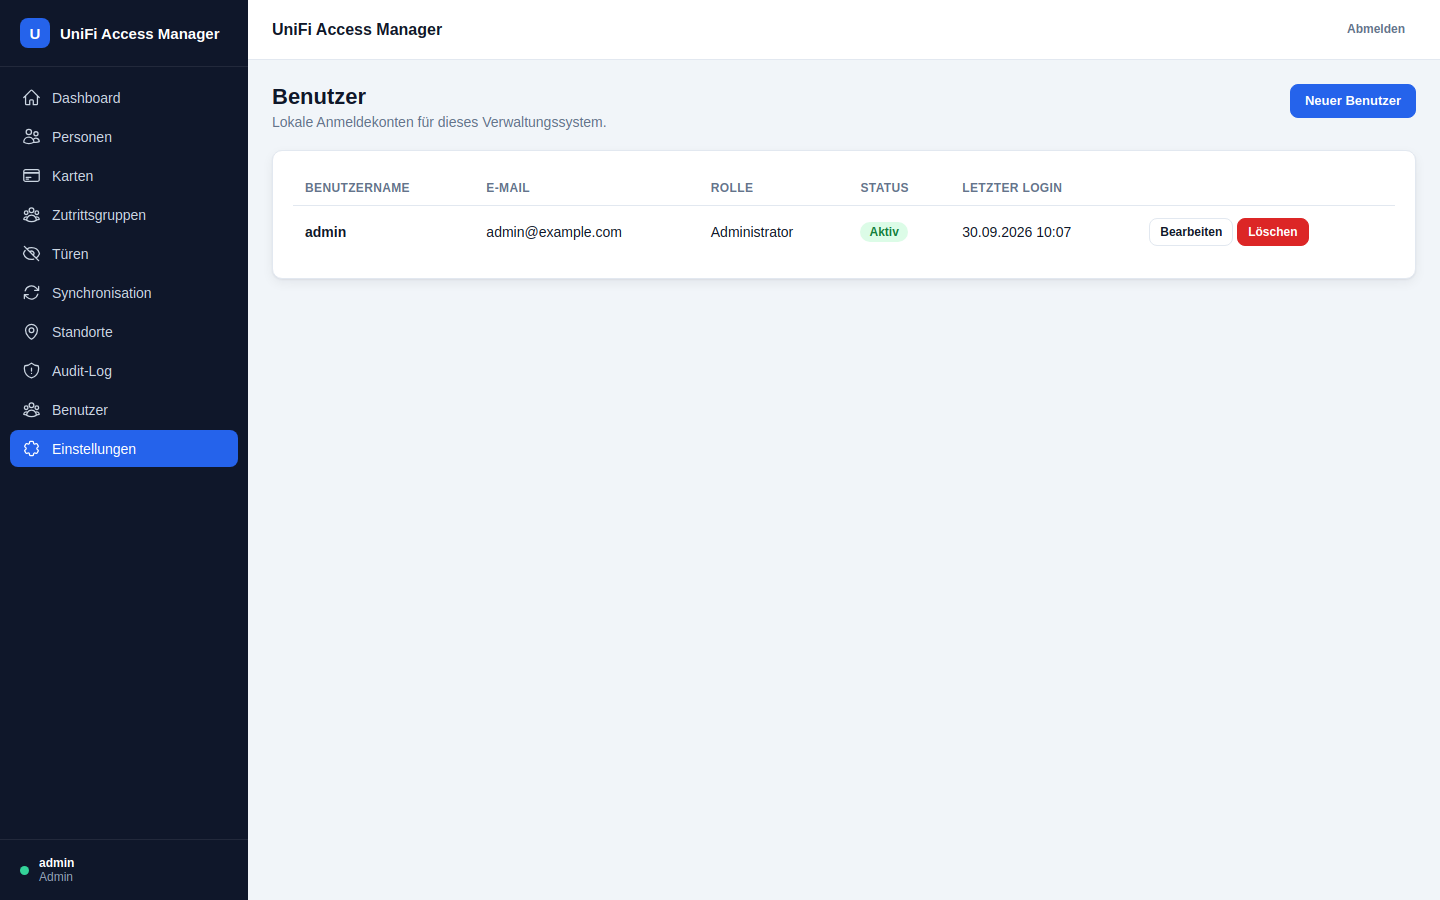
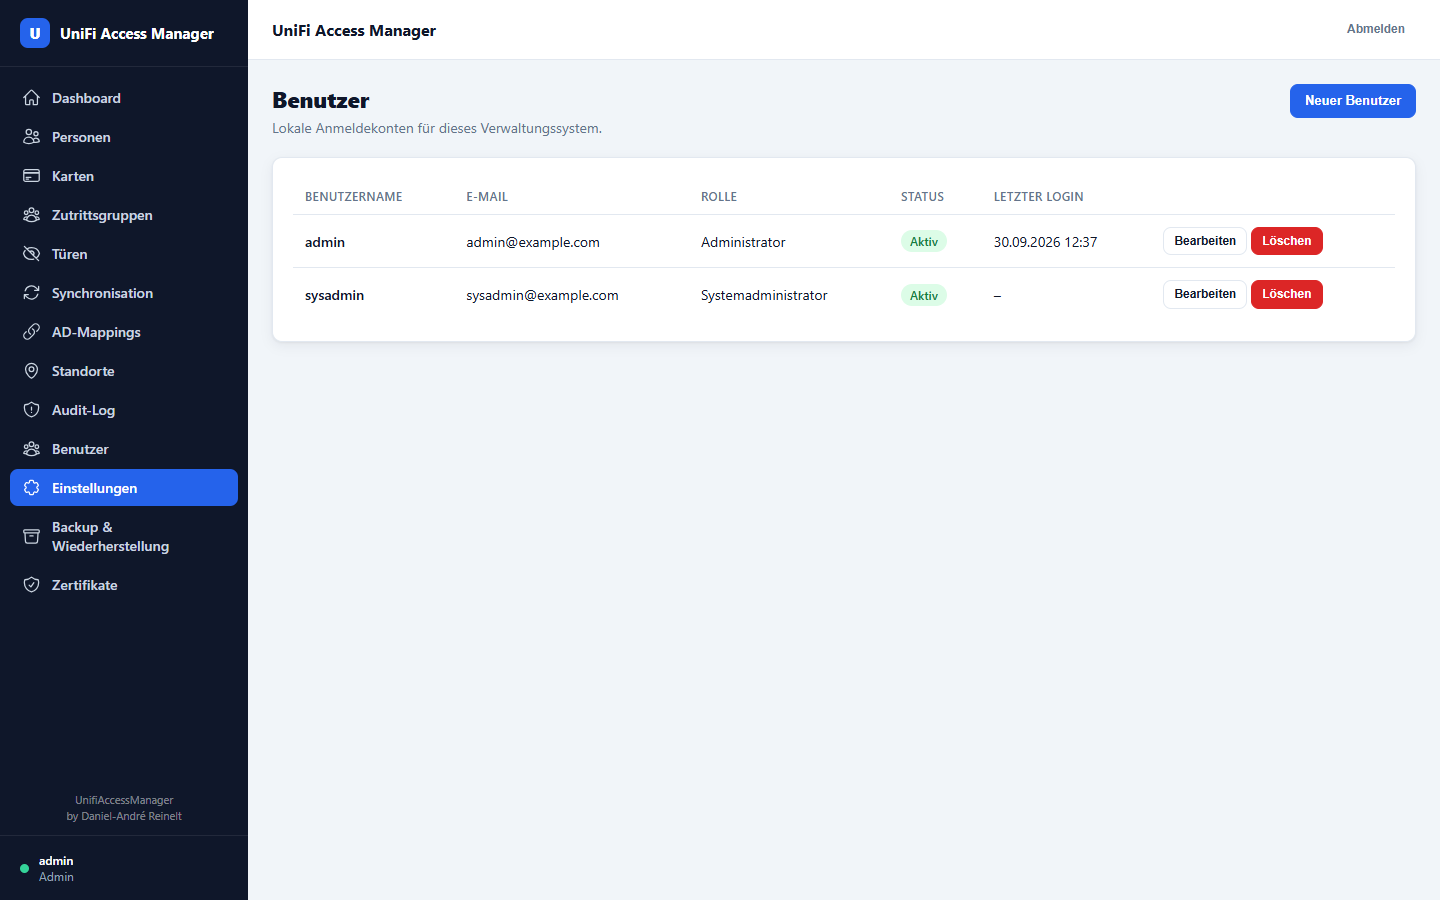
Add illustrated user guide and refresh screenshots
Capture screenshots for every section (including AD-Mappings, Backup, Zertifikate and Systemgeheimnisse) and document all functions in a new German user guide. Cross-link the guide from the README and existing docs.

diff --git a/docs/user-guide.md b/docs/user-guide.md
@@ -1,0 +1,290 @@
+# Bedienungsanleitung
+
+Diese Anleitung beschreibt alle Funktionen der Web-Oberfläche des **UniFi
+Access Manager** und veranschaulicht sie anhand von Screenshots. Sie richtet
+sich an Anwender mit den Rollen *Systemadministrator*, *Administrator*,
+*Operator* und *Nur Lesen*.
+
+> Die Screenshots wurden gegen die eingebaute Mock-API (`UNIFI_API_MOCK=true`)
+> erstellt und zeigen Demo-Daten. Im echten Betrieb sehen die Listen die Daten
+> Ihrer UniFi-Controller.
+
+## Inhaltsverzeichnis
+
+1. [Rollen & Berechtigungen](#rollen--berechtigungen)
+2. [Anmeldung](#anmeldung)
+3. [Dashboard](#dashboard)
+4. [Personen](#personen)
+5. [Personendetail](#personendetail)
+6. [Karten & Zugangsmedien](#karten--zugangsmedien)
+7. [Zutrittsgruppen](#zutrittsgruppen)
+8. [Türen](#türen)
+9. [Standorte](#standorte)
+10. [Synchronisation](#synchronisation)
+11. [AD-Mappings](#ad-mappings)
+12. [Audit-Log](#audit-log)
+13. [Benutzer](#benutzer)
+14. [Backup & Wiederherstellung](#backup--wiederherstellung)
+15. [Zertifikate](#zertifikate)
+16. [Einstellungen](#einstellungen)
+17. [Systemgeheimnisse](#systemgeheimnisse)
+18. [CSV-Export](#csv-export)
+
+---
+
+## Rollen & Berechtigungen
+
+Die Anwendung unterscheidet vier lokale Rollen. Je nach Rolle sind
+unterschiedliche Menüpunkte und Aktionen sichtbar:
+
+| Rolle | Berechtigungen |
+|-------|----------------|
+| **Systemadministrator** (`sysadmin`) | Alle Funktionen, zusätzlich **Systemgeheimnisse**. |
+| **Administrator** (`admin`) | Alle Verwaltungsfunktionen: Standorte, Audit-Log, Benutzer, Einstellungen, Backup, Zertifikate. |
+| **Operator** (`operator`) | Personen/Karten/Gruppen/Türen verwalten, Synchronisation ausführen, AD-Mappings pflegen. |
+| **Nur Lesen** (`readonly`) | Lesezugriff auf Dashboard, Personen, Karten, Gruppen, Türen. |
+
+## Navigation
+
+Die Seitenleiste links zeigt alle Menüpunkte, die für die aktuelle Rolle
+freigeschaltet sind. Oben rechts befindet sich der Abmelden-Button. Die
+aktuelle Rolle wird unten in der Seitenleiste angezeigt.
+
+---
+
+## Anmeldung
+
+Unter `http://localhost:8080` (bzw. der konfigurierten `APP_URL`) erscheint
+die Anmeldeseite. Nach Eingabe von Benutzername und Passwort wird eine
+signierte Session angelegt. Nach mehreren Fehlversuchen greift ein
+Rate-Limiting (Brute-Force-Schutz).
+
+![Anmeldeseite](screenshots/01-login.png)
+
+---
+
+## Dashboard
+
+Das Dashboard ist die Startseite nach der Anmeldung und zeigt eine kompakte
+Übersicht:
+
+- **Kennzahlen** als Kacheln: Standorte, Personen, Karten/Medien, freie
+  Karten, Zutrittsgruppen, Türen und lokale Benutzer. Jede Kachel verlinkt
+  auf den jeweiligen Bereich.
+- **Standorte-Tabelle** mit den Kennzahlen je Standort.
+- **Letzte Synchronisationen** mit Zeitpunkt, Status und Ergebnis.
+
+![Dashboard](screenshots/02-dashboard.png)
+
+---
+
+## Personen
+
+Die Personenliste zeigt den lokalen Cache aller UniFi-Benutzer über alle
+Standorte hinweg. Die Tabelle enthält Name, E-Mail, Standort,
+Mitarbeiternummer, zugewiesene Karten und Status (Aktiv / Ausstehend /
+Deaktiviert).
+
+Über die Filterleiste lässt sich die Liste nach Standort, Suchbegriff (Name,
+E-Mail, Nummer, Karte), Status, Karten-Zuordnung und Sortierung eingrenzen.
+Administratoren und Operatoren können über **Neue Person** eine Person
+anlegen; über **CSV exportieren** wird die Liste als CSV heruntergeladen.
+
+![Personenliste](screenshots/03-persons.png)
+
+---
+
+## Personendetail
+
+Ein Klick auf eine Person öffnet die Detailansicht mit drei Bereichen:
+
+- **Stammdaten** – Vorname, Nachname, E-Mail, Mitarbeiternummer, PIN-Code,
+  Status und letzte Synchronisation.
+- **Zutrittsgruppen** – Zuweisung der Person zu einer oder mehreren
+  Zutrittsgruppen per Checkbox.
+- **Karten / Zugangsmedien** – zugewiesene Karten inkl. Typ und Status.
+  Freie Karten können hier direkt zugewiesen bzw. vorhandene Karten entfernt
+  werden.
+
+Administratoren können zusätzlich die **Rohdaten** (UniFi) einsehen sowie die
+Person **Bearbeiten** oder **Löschen**.
+
+![Personendetail](screenshots/12-person-detail.png)
+
+---
+
+## Karten & Zugangsmedien
+
+Diese Seite listet alle RFID-Karten bzw. Zugangsmedien mit Kartennummer,
+Alias, Typ, Status, Standort und – sofern zugewiesen – der zugehörigen
+Person. Über die Filter lässt sich nach Standort, Suchbegriff und
+Zuweisungsstatus (zugewiesen / frei) filtern. **CSV exportieren** erzeugt
+einen CSV-Download.
+
+![Kartenübersicht](screenshots/04-cards.png)
+
+---
+
+## Zutrittsgruppen
+
+Zutrittsgruppen entsprechen den UniFi *Access Policies*. Die Tabelle zeigt
+Name, Standort, Mitgliederzahl und die zugeordneten Türen. Administratoren
+und Operatoren können Gruppen über **Neue Gruppe** anlegen (inkl.
+Tür-Zuordnung) sowie bestehende Gruppen bearbeiten oder löschen.
+
+![Zutrittsgruppen](screenshots/05-groups.png)
+
+---
+
+## Türen
+
+Die Türliste zeigt alle Türen pro Standort mit Typ und Schlossstatus
+(verriegelt / entriegelt). Administratoren und Operatoren können eine Tür über
+**Öffnen** per Fernöffnung (*unlock*) entriegeln.
+
+![Türen](screenshots/06-doors.png)
+
+---
+
+## Standorte
+
+Ein Standort entspricht einem UniFi-Controller. Die Liste zeigt Name, Host,
+Status sowie die gecachten Kennzahlen (Personen, Karten, Türen, Gruppen).
+Über **Neuer Standort** wird ein Controller mit Host, Port und API-Token
+hinterlegt (der Token wird AES-256-GCM-verschlüsselt gespeichert). Mit
+**Test** lässt sich die Verbindung prüfen, über **Bearbeiten** der Standort
+ändern und über **Löschen** samt Cache entfernen.
+
+![Standorte](screenshots/07-sites.png)
+
+---
+
+## Synchronisation
+
+Die Synchronisation überträgt die Daten aller Controller in den lokalen
+Cache. Die Seite zeigt den letzten erfolgreichen bzw. fehlgeschlagenen Lauf
+sowie den Verlauf mit Status, Nachricht und Statistik (Personen, Karten,
+Gruppen, Türen). Über **Jetzt synchronisieren** wird der Abgleich manuell
+angestoßen; zusätzlich läuft er periodisch über den Cron-Container.
+
+![Synchronisation](screenshots/08-sync.png)
+
+---
+
+## AD-Mappings
+
+Hier werden Active-Directory-Gruppen mit UniFi-Zutrittsgruppen verknüpft.
+Beim AD-Sync erhalten die Mitglieder der AD-Gruppe automatisch die
+Zutrittsrechte der zugeordneten Zutrittsgruppe.
+
+- **Neue Zuordnung** legt eine Verknüpfung AD-Gruppe → Zutrittsgruppe (je
+  Standort) an.
+- **Jetzt synchronisieren** führt den AD-Abgleich manuell aus.
+- Der Bereich **Abweichungen** listet Personen, die in Access berechtigt
+  sind, aber in keiner gemappten AD-Gruppe stecken; sie können als CSV
+  exportiert werden.
+
+![AD-Mappings](screenshots/13-ad-mappings.png)
+
+---
+
+## Audit-Log
+
+Das Audit-Log protokolliert alle Änderungen und Zugriffe revisionssicher:
+Zeitpunkt, Benutzer, Aktion, betroffenes Objekt, Ergebnis und Details. Die
+Suche filtert nach Aktion, Person oder Benutzer; **CSV exportieren** lädt das
+Log als CSV herunter.
+
+![Audit-Log](screenshots/09-audit.png)
+
+---
+
+## Benutzer
+
+Verwaltung der lokalen Anmeldekonten. Die Tabelle zeigt Benutzername, E-Mail,
+Rolle, Status und letzten Login. Über **Neuer Benutzer** werden Konten mit
+Rolle und Passwort (min. 10 Zeichen) angelegt; bestehende Konten lassen sich
+bearbeiten (Rolle, E-Mail, Passwort, Aktiv-Status) oder löschen.
+
+![Benutzer](screenshots/10-users.png)
+
+---
+
+## Backup & Wiederherstellung
+
+Sichert alle Einstellungen sowie die gecachten UniFi-Daten als
+unverschlüsseltes JSON-Archiv und spielt sie bei Bedarf wieder ein.
+
+- **Sofort-Backup** – lädt ein JSON-Archiv direkt herunter oder legt es im
+  Ordner `storage/backups` ab.
+- **Automatische Backups** – per Cron geplant; Intervall und Aufbewahrung
+  (Anzahl Archive) sind konfigurierbar.
+- **Gespeicherte Archive** – Liste aller abgelegten Archive mit Download und
+  Löschen.
+- **Wiederherstellung** – eine `.json`-Datei hochladen, Vorschau anzeigen und
+  die Wiederherstellung ausdrücklich bestätigen (ersetzt Einstellungen und
+  Cache vollständig).
+
+![Backup & Wiederherstellung](screenshots/14-backup.png)
+
+---
+
+## Zertifikate
+
+Verwaltung des HTTPS-Zertifikats der Web-Oberfläche:
+
+- **Status** – zeigt, ob ein echtes Zertifikat oder das selbstsignierte
+  Notfall-Zertifikat ausgeliefert wird, inkl. Hostname, Aussteller und
+  Gültigkeit.
+- **Request erstellen** – erzeugt einen CSR (Certificate Signing Request) mit
+  Common Name, SANs und weiteren Feldern.
+- **Zertifikat importieren** – signiertes Zertifikat (PEM mit Kette) als
+  Datei oder Text einfügen, mit Vorschau vor der Übernahme.
+- **Requests & Zertifikate** – Übersicht mit Aktivieren / Deaktivieren /
+  Löschen.
+
+Solange kein gültiges Zertifikat aktiv ist, bleibt HTTPS über das
+Notfall-Zertifikat immer verfügbar.
+
+![Zertifikate](screenshots/15-certificates.png)
+
+---
+
+## Einstellungen
+
+Zeigt die Anwendungskonfiguration (Name, Debug-Modus, Mock-Modus, Zeitzone,
+PHP-Version) und erlaubt die Konfiguration der automatischen Synchronisation
+(aktivieren/deaktivieren, Intervall in Minuten). App-Name, Debug- und
+Mock-Modus werden über die Umgebungsvariablen (`.env`) gesteuert und können
+hier nicht geändert werden.
+
+![Einstellungen](screenshots/11-settings.png)
+
+---
+
+## Systemgeheimnisse
+
+Nur für die Rolle **Systemadministrator** sichtbar. Hier werden vertrauliche
+Systemdaten verwaltet – Active-Directory-Daten, DNs und API-Endpunkte. Die
+Werte werden AES-256-GCM-verschlüsselt gespeichert und nur auf explizites
+**Anzeigen** entschlüsselt. Jede Anzeige und Änderung wird im Audit-Log
+protokolliert. Kategorien: *Active Directory*, *LDAP / DN*, *UniFi API* und
+*Sonstiges*.
+
+![Systemgeheimnisse](screenshots/16-system-secrets.png)
+
+---
+
+## CSV-Export
+
+Mehrere Bereiche lassen sich als CSV exportieren:
+
+| Bereich | URL | Inhalt |
+|---------|-----|--------|
+| Personen | `/export/persons` | Personenliste (`personen.csv`) |
+| Karten | `/export/credentials` | Kartenliste |
+| Audit-Log | `/export/audit` | Audit-Einträge |
+| AD-Abweichungen | `/export/ad-non-compliance` | Nicht konforme Personen |
+
+Die Exporte erfordern eine angemeldete Session und respektieren die
+Rollenberechtigungen des jeweiligen Bereichs.

diff --git a/docs/database.md b/docs/database.md
@@ -1,5 +1,8 @@
 # Datenbank
 
+> Screenshots der Oberfläche und eine bebilderte Anleitung finden Sie in der
+> [Bedienungsanleitung](user-guide.md).
+
 Schema: `database/migrations/001_initial.sql`. Engine InnoDB, Zeichensatz
 `utf8mb4`. Die Migrationen sind idempotent (`CREATE TABLE IF NOT EXISTS`).
 

diff --git a/docs/security.md b/docs/security.md
@@ -1,5 +1,8 @@
 # Sicherheit
 
+> Screenshots der Oberfläche und eine bebilderte Anleitung finden Sie in der
+> [Bedienungsanleitung](user-guide.md).
+
 ## Authentifizierung & Session
 
 - Lokale Anmeldung gegen `users` (Passwort-Hash via `password_hash`/`password_verify`).

diff --git a/docs/api.md b/docs/api.md
@@ -1,5 +1,8 @@
 # Interne API
 
+> Screenshots der Oberfläche und eine bebilderte Anleitung finden Sie in der
+> [Bedienungsanleitung](user-guide.md).
+
 Alle JSON-Endpunkte liegen unter `/api/*` und erfordern eine aktive Session
 (Authentifizierung). Antwortformat:
 

diff --git a/README.md b/README.md
@@ -102,6 +102,7 @@ an das `APP_SECRET` der erzeugenden Installation gebunden.
 
 ## Dokumentation
 
+- [Bedienungsanleitung (mit Screenshots)](docs/user-guide.md)
 - [Architektur](docs/architecture.md)
 - [UniFi API](docs/unifi-api.md)
 - [Datenbank](docs/database.md)

diff --git a/docs/architecture.md b/docs/architecture.md
@@ -1,5 +1,8 @@
 # Architektur
 
+> Screenshots der Oberfläche und eine bebilderte Anleitung finden Sie in der
+> [Bedienungsanleitung](user-guide.md).
+
 ## Überblick
 
 Die Anwendung ist eine klassische, serverseitig gerenderte Web-App nach dem

diff --git a/docs/unifi-api.md b/docs/unifi-api.md
@@ -1,5 +1,8 @@
 # UniFi API
 
+> Screenshots der Oberfläche und eine bebilderte Anleitung finden Sie in der
+> [Bedienungsanleitung](user-guide.md).
+
 ## Grundsatz
 
 Die Anwendung nutzt ausschließlich die **lokale** UniFi Access API. Jeder

diff --git a/docs/deployment.md b/docs/deployment.md
@@ -1,5 +1,8 @@
 # Deployment
 
+> Screenshots der Oberfläche und eine bebilderte Anleitung finden Sie in der
+> [Bedienungsanleitung](user-guide.md).
+
 ## Voraussetzungen
 
 - Docker Engine mit Docker Compose (v2)
